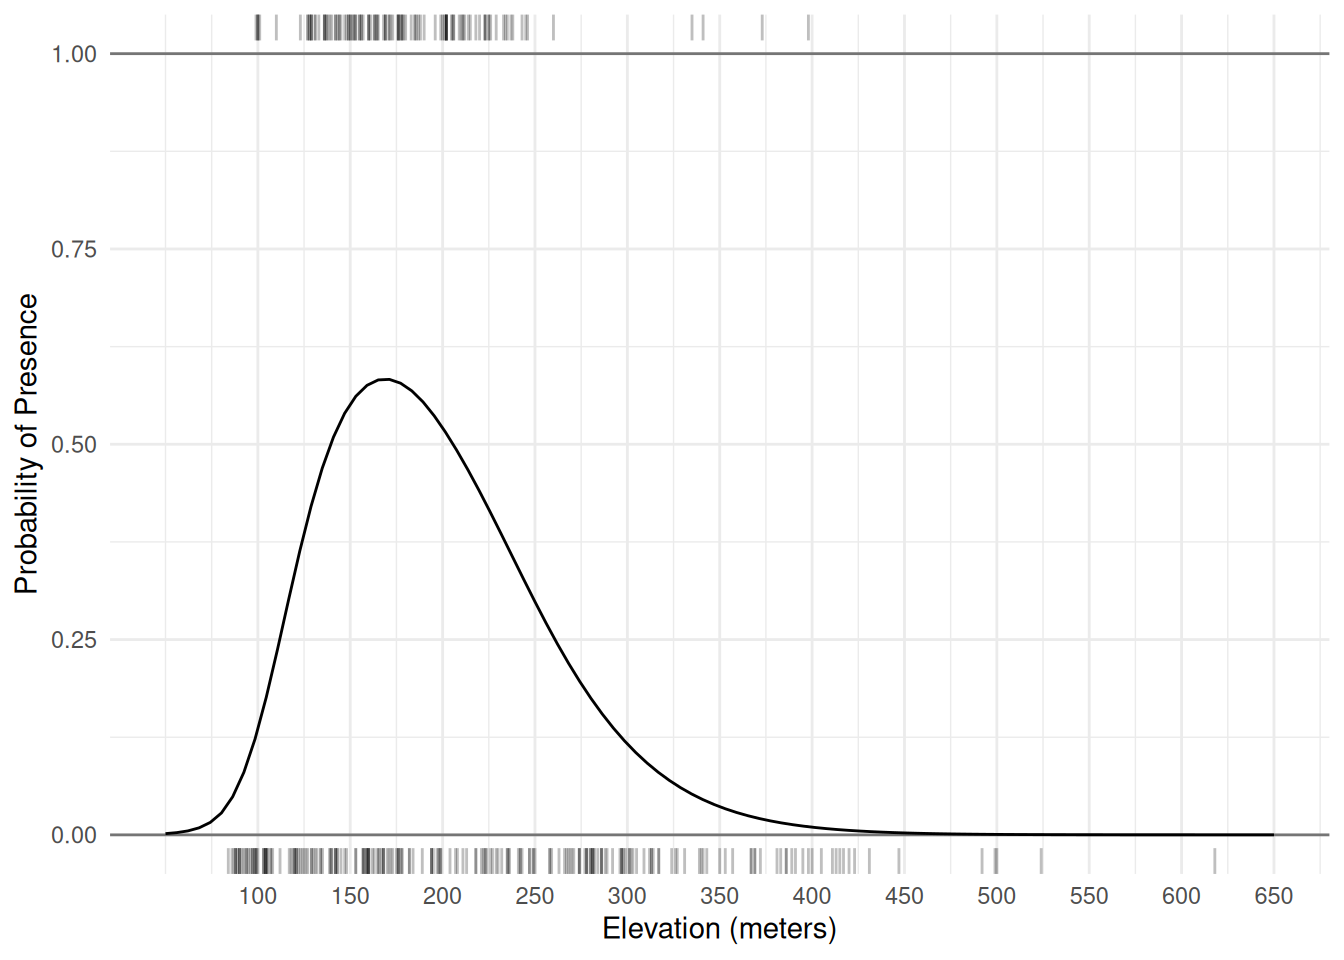
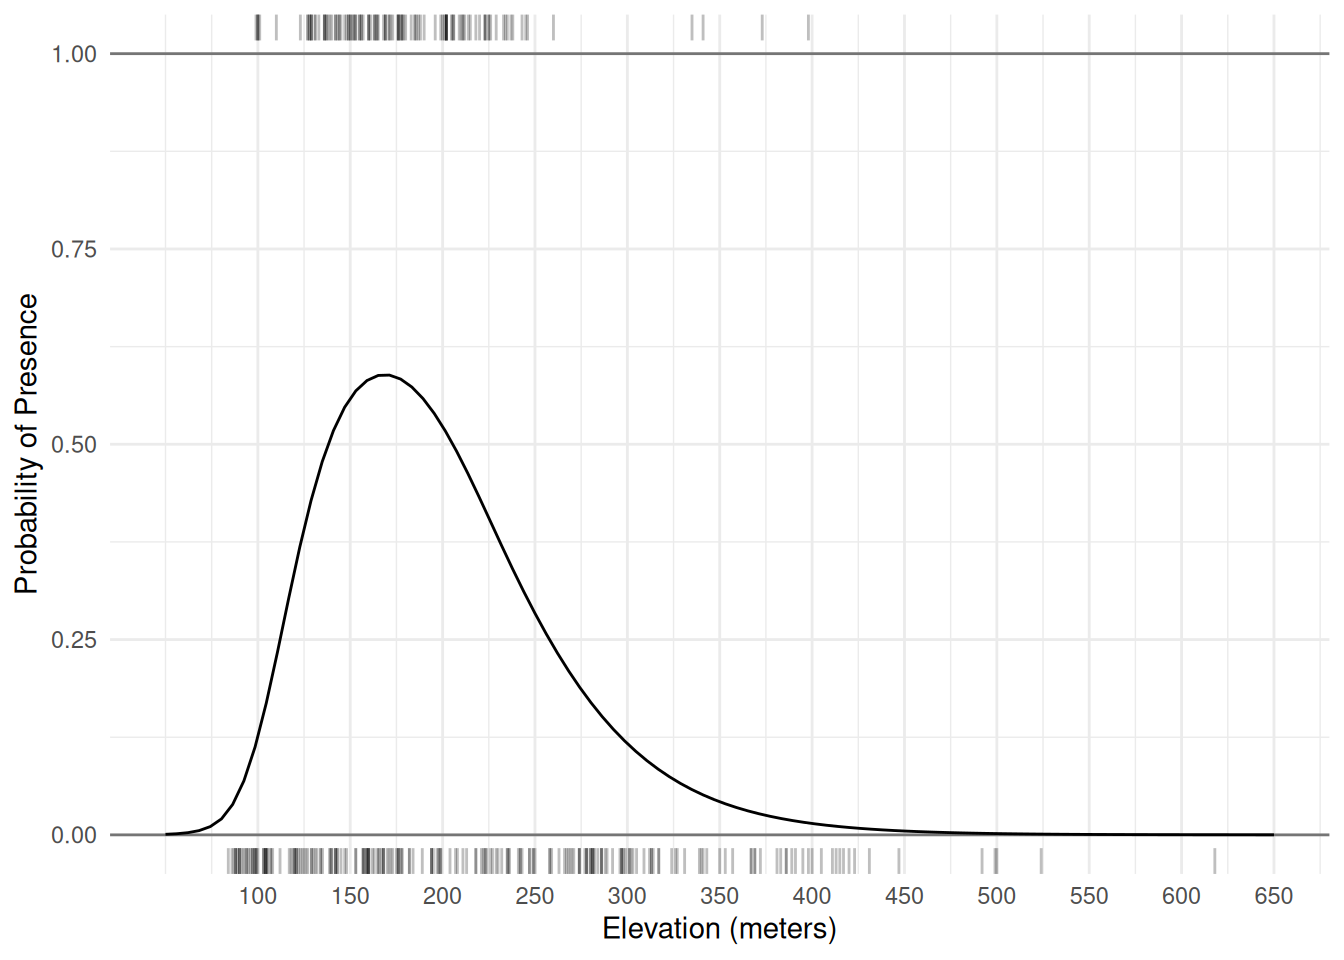
lecture 4/30 edit

diff --git a/lecture-04-30-2025.html b/lecture-04-30-2025.html
@@ -525,7 +525,7 @@ concave or convex).</p>
 library(blmeco)
 data(anoctua)
 
-m &lt;- scam(PA ~ s(elevation, k = 12, bs = &quot;cv&quot;, m = 2), family = binomial, data = anoctua)
+m &lt;- scam(PA ~ s(elevation, bs = &quot;cv&quot;, m = 2), family = binomial, data = anoctua)
 
 d &lt;- data.frame(elevation = seq(50, 650, length = 100))
 d$yhat &lt;- predict(m, newdata = d, type = &quot;response&quot;)
